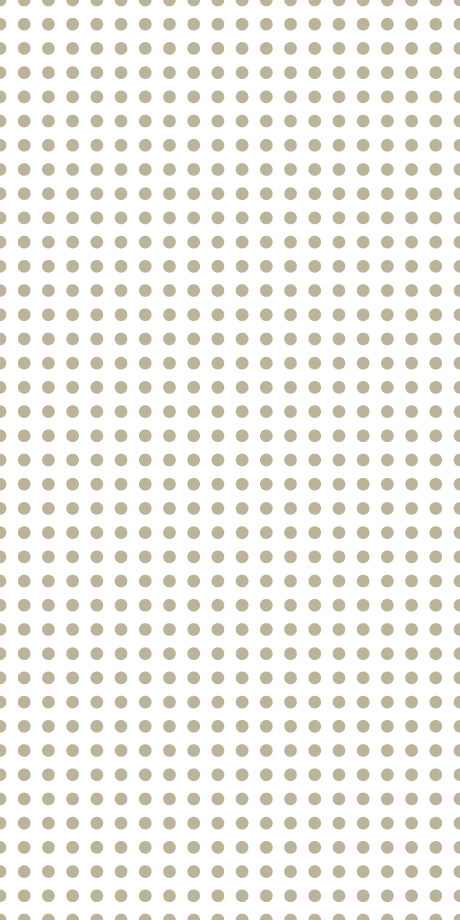
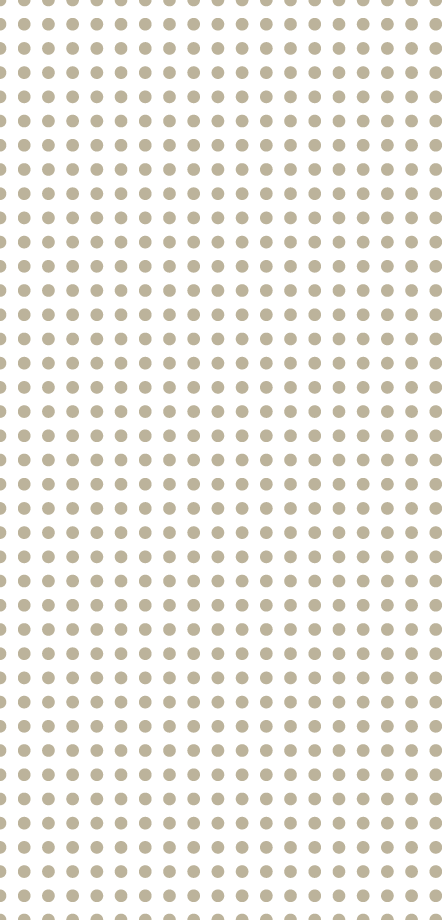
styling the bg image on the blog-post

diff --git a/style.css b/style.css
@@ -950,8 +950,8 @@ em {
 }
 
 /* line 266, src/style.scss */
-.blog-post {
-  margin: 0 auto;
+.blog-post-tz {
+  margin: 0 auto 40px auto;
   border: 1px solid;
   border-color: #eee;
   border-bottom-color: #ddd;
@@ -962,18 +962,18 @@ em {
   padding: 35px 35px 50px 165px;
   position: relative;
   background-color: #fff;
-  position: relative;
+  background-image: url(/wp-content/themes/spokes/images/bg-dots.png);
+  background-size: 120px;
+  background-repeat: repeat-y;
 }
 
-/* line 281, src/style.scss */
+/* line 284, src/style.scss */
 .post-date-mod {
-  background: url(/wp-content/themes/spokes/images/bg-dots.png) 50% 50%;
-  background-size: 100%;
   width: 131px;
   height: 260px;
 }
 
-/* line 288, src/style.scss */
+/* line 289, src/style.scss */
 .post-date {
   background-color: #9f916f;
   padding: 10px;
@@ -990,7 +990,7 @@ em {
 /* ============================================= */
 /*	Footer	    						   		 */
 /* ============================================= */
-/* line 308, src/style.scss */
+/* line 309, src/style.scss */
 footer {
   height: 515px;
   background-color: #222;
@@ -998,21 +998,21 @@ footer {
   text-align: center;
 }
 
-/* line 315, src/style.scss */
+/* line 316, src/style.scss */
 .ftr-logo {
   max-width: 515px;
   width: 100%;
   margin-bottom: 25px;
 }
 
-/* line 321, src/style.scss */
+/* line 322, src/style.scss */
 .sponsors {
   height: 515px;
   background-color: #f5f5f3;
   margin: 0 auto;
   text-align: center;
 }
-/* line 327, src/style.scss */
+/* line 328, src/style.scss */
 .sponsors .sponsors-mod {
   *zoom: 1;
 }
@@ -1037,11 +1037,11 @@ footer {
   float: right;
   margin-right: 0;
 }
-/* line 331, src/style.scss */
+/* line 332, src/style.scss */
 .sponsors .section-h1 {
   color: #000;
 }
-/* line 335, src/style.scss */
+/* line 336, src/style.scss */
 .sponsors .sponsors-list-mod {
   -webkit-columns: 3;
   -moz-columns: 3;
@@ -1049,12 +1049,12 @@ footer {
   -o-columns: 3;
   columns: 3;
 }
-/* line 339, src/style.scss */
+/* line 340, src/style.scss */
 .sponsors .sponsor-list-item {
   font: 400 18px/160% "freight-sans-pro", "PT Sans", "Helvetica Neue", Arial, Helvetica, Verdana, sans-serif;
 }
 
-/* line 344, src/style.scss */
+/* line 345, src/style.scss */
 .sponsors-ul {
   display: inline-block;
   margin-right: 10%;
@@ -1062,7 +1062,7 @@ footer {
   text-align: left;
   vertical-align: top;
 }
-/* line 351, src/style.scss */
+/* line 352, src/style.scss */
 .sponsors-ul:last-child {
   margin-right: 0px;
 }
@@ -1070,12 +1070,12 @@ footer {
 /* ============================================= */
 /*	Special FX    						   		 */
 /* ============================================= */
-/* line 366, src/style.scss */
+/* line 367, src/style.scss */
 .card-effect {
   position: relative;
 }
 
-/* line 370, src/style.scss */
+/* line 371, src/style.scss */
 .card-effect:before, .card-effect:after {
   z-index: -1;
   position: absolute;
@@ -1096,7 +1096,7 @@ footer {
   transform: rotate(-3deg);
 }
 
-/* line 384, src/style.scss */
+/* line 385, src/style.scss */
 .card-effect:after {
   -webkit-transform: rotate(3deg);
   -moz-transform: rotate(3deg);

diff --git a/src/style.scss b/src/style.scss
@@ -260,11 +260,11 @@ em   	{	font-style: italic;	}
 	text-align: center;
 }
 
-.blog-feed-ul {
+.blog-feed-mod {
 }
 
-.blog-post {
-	margin: 0 auto;
+.blog-post-tz {
+	margin: 0 auto 40px auto;
 	border: 1px solid;
 	border-color: #eee;
 	border-bottom-color: #ddd;
@@ -275,12 +275,13 @@ em   	{	font-style: italic;	}
 	padding: 35px 35px 50px 165px;
 	position: relative;
 	background-color: #fff;
-	position: relative;
+
+	background-image: url(/wp-content/themes/spokes/images/bg-dots.png);
+	background-size: 120px;
+	background-repeat: repeat-y;
 }
 
 .post-date-mod {
-	background: url(/wp-content/themes/spokes/images/bg-dots.png) 50% 50%;
-	background-size: 100%;
 	width: 131px;
 	height: 260px;
 }
